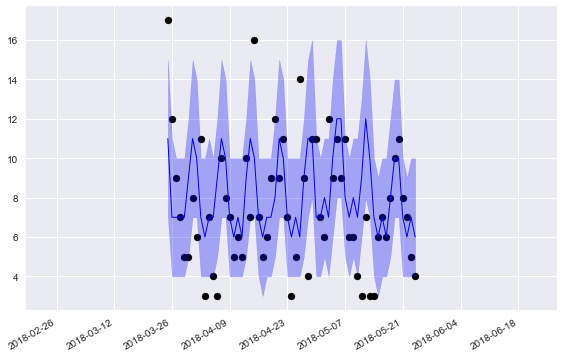
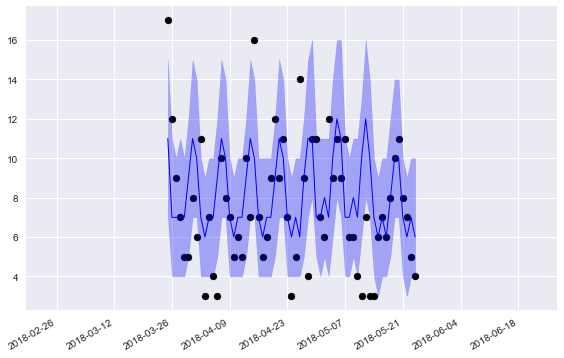
slight example improvement

diff --git a/searchindex.js b/searchindex.js
@@ -1,1 +1,1 @@
-Search.setIndex({docnames:["Poisson_DGLM_In_Depth_Example/Poisson_DGLM_In_Depth_Example","examples","includeme","index","manual","modules","pybats","regression_example","seasonality_example"],envversion:51,filenames:["Poisson_DGLM_In_Depth_Example/Poisson_DGLM_In_Depth_Example.rst","examples.rst","includeme.rst","index.rst","manual.md","modules.rst","pybats.rst","regression_example.md","seasonality_example.md"],objects:{"":{pybats:[6,0,0,"-"]},"pybats.analysis":{analysis:[6,1,1,""]},"pybats.conjugates":{beta_approx:[6,1,1,""],beta_solver:[6,1,1,""],conj_params:[6,1,1,""],gamma_alpha_approx:[6,1,1,""],gamma_approx:[6,1,1,""],gamma_solver:[6,1,1,""],pois_alpha_param:[6,1,1,""]},"pybats.define_models":{define_bern_params:[6,1,1,""],define_bin_params:[6,1,1,""],define_dglm:[6,1,1,""],define_dlm_params:[6,1,1,""],define_pois_params:[6,1,1,""],fill_diag:[6,1,1,""],ncol:[6,1,1,""]},"pybats.dglm":{bern_dglm:[6,2,1,""],bin_dglm:[6,2,1,""],dglm:[6,2,1,""],dlm:[6,2,1,""],pois_dglm:[6,2,1,""]},"pybats.dglm.bern_dglm":{get_conjugate_params:[6,3,1,""],get_mean:[6,3,1,""],get_mean_and_var:[6,3,1,""],get_prior_var:[6,3,1,""],loglik:[6,3,1,""],marginal_cdf:[6,3,1,""],prior_inverse_cdf:[6,3,1,""],sampling_density:[6,3,1,""],simulate:[6,3,1,""],simulate_from_prior:[6,3,1,""],simulate_from_sampling_model:[6,3,1,""],update_conjugate_params:[6,3,1,""]},"pybats.dglm.bin_dglm":{forecast_marginal:[6,3,1,""],get_conjugate_params:[6,3,1,""],get_mean:[6,3,1,""],get_prior_var:[6,3,1,""],loglik:[6,3,1,""],marginal_cdf:[6,3,1,""],prior_inverse_cdf:[6,3,1,""],simulate:[6,3,1,""],simulate_from_sampling_model:[6,3,1,""],update:[6,3,1,""],update_conjugate_params:[6,3,1,""]},"pybats.dglm.dglm":{build_discount_matrix:[6,3,1,""],forecast_marginal:[6,3,1,""],forecast_path:[6,3,1,""],forecast_state_mean_and_var:[6,3,1,""],get_W:[6,3,1,""],get_mean_and_var:[6,3,1,""],update:[6,3,1,""]},"pybats.dglm.dlm":{forecast_path:[6,3,1,""],get_conjugate_params:[6,3,1,""],get_mean:[6,3,1,""],get_mean_and_var:[6,3,1,""],simulate:[6,3,1,""],simulate_from_sampling_model:[6,3,1,""],update:[6,3,1,""]},"pybats.dglm.pois_dglm":{get_conjugate_params:[6,3,1,""],get_mean:[6,3,1,""],get_mean_and_var:[6,3,1,""],get_prior_var:[6,3,1,""],loglik:[6,3,1,""],marginal_cdf:[6,3,1,""],marginal_inverse_cdf:[6,3,1,""],prior_inverse_cdf:[6,3,1,""],sampling_density:[6,3,1,""],simulate:[6,3,1,""],simulate_from_prior:[6,3,1,""],simulate_from_sampling_model:[6,3,1,""],update_conjugate_params:[6,3,1,""]},"pybats.forecast":{forecast_R_cov:[6,1,1,""],forecast_aR:[6,1,1,""],forecast_marginal:[6,1,1,""],forecast_marginal_bindglm:[6,1,1,""],forecast_marginal_density_MC:[6,1,1,""],forecast_path:[6,1,1,""],forecast_path_dlm:[6,1,1,""],forecast_state_mean_and_var:[6,1,1,""],multivariate_t:[6,1,1,""],multivariate_t_density:[6,1,1,""]},"pybats.loss_functions":{MAD:[6,1,1,""],MAPE:[6,1,1,""],MSE:[6,1,1,""],WAFE:[6,1,1,""],WAPE:[6,1,1,""],ZAPE:[6,1,1,""],scaledMSE:[6,1,1,""]},"pybats.plot":{ax_style:[6,1,1,""],plot_coef:[6,1,1,""],plot_corr:[6,1,1,""],plot_data_forecast:[6,1,1,""]},"pybats.point_forecast":{constrained_joint_m_one_median:[6,1,1,""],constrained_mean:[6,1,1,""],constrained_median:[6,1,1,""],joint_m_one_median:[6,1,1,""],m_one_median:[6,1,1,""],mean:[6,1,1,""],median:[6,1,1,""],weighted_quantile:[6,1,1,""]},"pybats.seasonal":{createFourierToSeasonalL:[6,1,1,""],forecast_path_weekly_seasonal_factor:[6,1,1,""],forecast_weekly_seasonal_factor:[6,1,1,""],forecast_weekly_seasonal_factor_old:[6,1,1,""],fourierToSeasonal:[6,1,1,""],fourierToSeasonalFxnl:[6,1,1,""],get_latent_factor_fxnl_old:[6,1,1,""],get_seasonal_effect_fxnl:[6,1,1,""],get_seasonal_effect_old:[6,1,1,""],sample_seasonal_effect_fxnl:[6,1,1,""],sample_seasonal_effect_fxnl_old:[6,1,1,""],sample_seasonal_effect_old:[6,1,1,""],seascomp:[6,1,1,""]},"pybats.shared":{cov2corr:[6,1,1,""],define_holiday_regressors:[6,1,1,""],gamma_transformer:[6,1,1,""],load_sales_example2:[6,1,1,""],load_sales_example:[6,1,1,""],save:[6,1,1,""],transformer:[6,1,1,""],trigamma:[6,1,1,""]},"pybats.update":{update:[6,1,1,""],update_F:[6,1,1,""],update_bindglm:[6,1,1,""],update_dlm:[6,1,1,""]},pybats:{analysis:[6,0,0,"-"],conjugates:[6,0,0,"-"],define_models:[6,0,0,"-"],dglm:[6,0,0,"-"],forecast:[6,0,0,"-"],loss_functions:[6,0,0,"-"],plot:[6,0,0,"-"],point_forecast:[6,0,0,"-"],seasonal:[6,0,0,"-"],shared:[6,0,0,"-"],update:[6,0,0,"-"]}},objnames:{"0":["py","module","Python module"],"1":["py","function","Python function"],"2":["py","class","Python class"],"3":["py","method","Python method"]},objtypes:{"0":"py:module","1":"py:function","2":"py:class","3":"py:method"},terms:{"1st":6,"2nd":[3,6],"boolean":6,"case":3,"class":[0,3,6],"default":[0,3],"final":[0,3],"function":[0,3,6],"import":[0,3],"int":3,"long":0,"new":3,"public":3,"return":[0,3,6],"true":[0,6],"var":6,"while":0,For:[],Not:0,One:0,That:[],The:[0,3],Then:[0,3],There:0,These:[0,3],Use:[],Used:0,about:[],abov:0,abraham:3,absolut:0,accomplish:0,accur:0,acknowledg:3,across:[3,6],act:[],actual:0,adapt:6,adapt_discount:6,adapt_factor:6,added:[0,6],addit:0,adjust:0,advertis:3,after:[0,3],ahead:[0,3,6],align:0,all:[0,6],along:[0,3],alpha:6,alpha_init:6,also:0,alwai:0,analysi:[1,3,5],analyz:0,andrew:3,ani:0,answer:0,anyth:0,appear:0,arang:3,arg:6,argument:[0,6],around:0,arrai:6,arxiv:3,associ:3,automat:[0,3],avail:[],averag:0,ax_styl:[0,3,6],bad:0,base:[3,6],basic:3,bayesian:3,becaus:[0,3],becom:0,been:0,begin:[0,6],believ:0,bern_dglm:6,bernoulli:[3,6],berri:3,beta:6,beta_approx:6,beta_init:6,beta_solv:6,between:0,bfill:[],bin_dglm:6,binomi:[3,6],boost:0,build_discount_matrix:6,calcul:0,calibr:0,call:0,can:[0,3,6],caption:[],captur:0,caus:0,cdf:6,center:0,chang:0,choos:[],clear:0,clearli:0,clone:3,close:0,code:[],coef:6,coef_sampl:6,coeffic:0,coeffici:0,column:[0,6],com:3,come:0,common:6,complet:0,compon:[0,3,6],conclus:1,conj_param:6,conjug:[0,5],consid:0,constrained_joint_m_one_median:6,constrained_mean:6,constrained_median:6,consum:3,contain:0,content:5,contributor:3,control:3,copula:[],corr:6,correct:0,could:[0,3],count:3,coupl:3,cov2corr:6,cov:6,covari:[0,3,6],createfouriertoseasonal:6,credibl:[0,3],credible_interv:[0,6],cron:3,current:[0,3],custom:3,dai:[1,6],daili:[0,6],data:[1,3,6],data_1step:0,datafram:0,dataset:[0,3],date:[0,3,6],dateoffset:0,dayofweek:0,decompos:0,deep:0,def:0,defin:[0,3,6],define_bern_param:6,define_bin_param:6,define_dglm:6,define_dlm_param:6,define_holiday_regressor:6,define_model:5,define_pois_param:6,definit:0,degre:6,delhol:6,delregn:[3,6],delsea:[0,6],deltrend:[3,6],delvar:6,demonstr:0,densiti:6,depth:[1,3],design:3,desir:0,detail:0,develop:3,deviat:[0,6],dglm:[0,3,5],did:0,dietari:3,discount:[0,3,6],discount_forecast:6,discuss:[],distribut:[0,3,6],dive:0,dlm:[3,6],document:[],don:0,dow_post_mean:0,dow_post_mean_plot:0,download:3,draw:[0,6],dtype:3,dynam:[0,3],each:[0,6],easi:0,easili:[],edit:3,effect:[0,3,6],either:0,end:[3,6],entri:3,equal:0,equat:6,equival:0,error:[0,6],even:0,evolut:[0,6],exactli:0,examin:[],exampl:3,exp:0,explod:6,explor:0,expon:0,exponenti:6,extens:3,extract:3,f_sea:0,f_t:[],factor:[0,3,6],fairli:0,fals:6,famili:[0,3,6],few:0,fewer:[],ffill:0,fig:[0,3,6],filenam:6,fill_diag:6,filter:[0,3],first:[0,3,6],flexibl:3,flow:[],fn1:6,fn2:6,focu:3,follow:0,forecast:[1,3,5],forecast_ar:6,forecast_end:[0,3,6],forecast_joint_copula_density_mc:[],forecast_joint_copula_sim:[],forecast_length:0,forecast_margin:6,forecast_marginal_bindglm:6,forecast_marginal_density_mc:6,forecast_path:6,forecast_path_copula:[],forecast_path_copula_density_mc:[],forecast_path_copula_sim:[],forecast_path_dlm:6,forecast_path_weekly_seasonal_factor:6,forecast_r_cov:6,forecast_samp:0,forecast_start:[0,3,6],forecast_state_mean_and_var:6,forecast_weekly_seasonal_factor:6,forecast_weekly_seasonal_factor_old:6,form:3,forward:[0,3],fouriertoseason:6,fouriertoseasonalfxnl:6,freedom:6,fridai:0,from:[0,3,6],fsea:6,full:0,further:6,futur:[0,6],gamma_alpha_approx:6,gamma_approx:6,gamma_solv:6,gamma_transform:6,gener:3,get:0,get_conjugate_param:6,get_latent_factor_fxnl_old:6,get_mean:6,get_mean_and_var:6,get_prior_var:6,get_seasonal_effect_fxnl:6,get_seasonal_effect_old:6,get_w:6,git:3,github:3,given:6,going:0,good:0,graph:0,gsea:6,habit:0,harm_post_mean:0,harmcompon:6,harmon:[0,6],harrison:[3,6],has:[0,3],have:0,head:0,helman:3,helper:3,here:0,heterogen:3,higher:0,highest:0,histor:0,histori:0,holidai:[0,6],horizon:[0,3,6],host:3,how:[0,3,6],http:[],imag:3,inc:3,includ:6,increas:[0,3],index:[0,3,6],indic:[0,6],info:6,inform:0,initi:6,instal:[],instead:6,integ:[0,3],intercept:[0,3,6],interest:[0,3],interfac:[],interg:[],interp:6,interp_fn:6,interpol:6,interpret:0,interv:[0,3],isaac:3,isea:[0,6],item:0,joint:0,joint_m_one_median:6,jpg:3,june:0,just:0,kei:6,know:0,known:0,kwarg:6,kx1:[],kxk:[],label:6,lambda:6,lambda_cov:[],lambda_mu:[],lambda_t:[],larg:0,larger:[0,3,6],lavin:3,lavinei:3,learn:0,ledolt:3,legend:[0,3,6],legend_inside_plot:6,less:0,let:0,level:6,like:0,linear:[0,3],linecolor:6,linewidth:6,link:0,list:[0,6],load:[1,3],load_sales_exampl:[3,6],load_sales_example2:[0,6],loc:0,local:6,log:[0,6],loglik:6,longer:0,look:[0,3],loss:0,loss_funct:[0,5],lower:0,m_one_median:6,mad:[0,6],mani:[0,3,6],manual:0,mape:[0,6],margin:[0,3,6],marginal_cdf:6,marginal_inverse_cdf:6,matplotlib:[0,3],matrix:[0,6],maxdepth:[],mdinclud:[],mean:[0,3,6],mean_onli:6,meant:[],median:[0,3,6],method:0,metric:0,might:[],minim:0,mod:[0,3,6],mod_list:[],model:[0,3,6],model_coef:[0,6],model_prior:6,modul:[3,5],mondai:0,monitor:0,month:0,more:0,most:[0,3],move:0,mse:[0,6],mu_t:[],much:0,multipl:[0,3],multivariate_t:6,multivariate_t_dens:6,must:[],natur:0,ncol:6,need:0,next:0,nhol:6,noisi:0,none:6,normal:[3,6],note:0,notic:0,now:0,nregn:6,nsamp:[0,6],ntrend:6,number:[0,6],numpi:[0,3],obj:6,object:6,observ:[3,6],obtain:0,occur:0,off:0,offer:3,okai:0,onc:0,one:0,onli:[0,6],onlin:0,optim:0,option:[3,6],order_dow:0,other:0,otherwis:6,our:0,out:0,outcom:3,output:0,over:0,packag:[0,3,5],page:3,panda:[0,6],paramet:[0,6],part:0,pass:0,path:[0,6],path_forecast:0,pattern:0,percent:0,perfect:0,perform:[0,3],period:[0,3,6],pictur:0,pip:[],plenti:0,plot:[1,3,5],plot_coef:[0,6],plot_corr:6,plot_data_forecast:[0,3,6],plt:[0,3],plu:3,pluck:0,poi:[],point:[0,3],point_forecast:[0,3,5],pois_alpha_param:6,pois_dglm:6,poisson:[0,3,6],poisson_dglm_in_depth_exampl:[],popular:0,positive_regn:6,posterior:[0,3],potenti:0,predictor:[0,6],prespecifi:6,pretti:0,prevent:6,price:0,print:0,prior:[0,3,6],prior_inverse_cdf:6,prior_length:[0,3,6],probabilist:3,probabl:0,produc:6,product:3,promot:0,properti:0,provid:[0,3],pure:3,pybat:0,pybats_github:[],pypi:[],pyplot:[0,3],python:3,quantil:6,question:0,quick:[],random:[0,3],rang:0,rapidli:0,rate:6,react:0,readm:[],recogn:0,reduc:0,refer:3,regress:[0,3,6],rememb:0,replac:0,repres:0,requir:0,respect:3,result:[1,3],ret:[0,6],return_ar:6,return_cov:[],reveal:[],rho:[0,3,6],rightbord:6,rotat:0,row:[0,6],rule:0,run:[1,3],sai:0,sale:[1,3],samp:6,sampl:[0,3,6],sample_seasonal_effect_fxnl:6,sample_seasonal_effect_fxnl_old:6,sample_seasonal_effect_old:6,samples_1step:0,sampling_dens:6,saturdai:0,save:[0,6],savefig:3,saw:0,scale:[0,6],scaledms:6,sea:[],search:3,seas_eff:0,seascomp:6,seasharmcompon:[0,6],season:[1,5],seasperiod:[0,6],second:[0,3],see:[0,3],sequenti:[0,3],seri:3,set:[0,3],set_index:0,setup:3,shape:0,share:[0,3,5],shop:0,should:[0,6],show:0,signific:0,sim:[],similar:0,simpl:0,simul:[0,6],simulate_from_prior:6,simulate_from_sampling_model:6,size:6,slope:6,slowli:0,smaller:[0,6],solver_fn:6,sourc:[3,6],space:0,special:6,specif:0,specifi:[0,3],spend:3,spike:0,springer:3,squar:0,stabil:0,stabl:0,standard:[0,6],start:[0,6],state:[0,3,6],state_mean_var:6,step:[0,3,6],still:0,stochast:6,stop:0,store:[0,3],strong:0,structur:0,submit:3,submodul:5,subplot:[0,3],success:6,sudo:3,sum:0,sundai:0,support:3,t_dist:[],take:[0,3],takeawai:0,term:0,test:6,than:0,thei:0,them:0,therefor:[],theta:[],theta_:[],theta_t:[],thi:[0,3,6],think:0,those:0,through:0,thursdai:0,time:[0,3],titl:6,to_datetim:0,to_replac:0,todai:6,took:[],topbord:6,total:0,transact:3,transform:[0,6],translat:0,trend:[0,3,6],trigamma:6,tseri:[0,6],tuesdai:0,turn:[],two:0,type:0,uncertainti:0,underli:[],unfortun:0,unpredict:0,updat:[0,3,5],update_bindglm:6,update_conjugate_param:6,update_dlm:6,update_f:6,upon:3,use:[0,3,6],used:[0,6],usfederalholidaycalendar:0,using:[0,3,6],valu:[0,3,6],varianc:[0,3,6],vector:[0,3,6],veri:0,verlag:3,version:[],visibl:0,visitor:[],volatil:6,wafe:6,wai:6,want:0,wape:6,websit:[],wednesdai:0,week:1,weekli:[0,6],weight:[3,6],weighted_quantil:6,welcom:[],well:[0,3],west:[3,6],what:0,when:[0,6],where:[0,6],which:[0,3],why:0,wonder:0,word:6,would:[],wrapper:0,xlabel:[3,6],xlim:[3,6],y_t:[],yes:6,ylabel:[3,6],ylim:6,ymean:6,york:3,you:[0,3],zape:[0,6],zero:0,zip:0,zoom:0},titles:["Sales Forecasting: In-Depth Example","Examples","&lt;no title&gt;","PyBATS","&lt;no title&gt;","pybats","pybats package","Regression Example","Seasonality Example"],titleterms:{"function":[],Use:[],analysi:[0,6],conclus:0,conjug:6,content:6,dai:0,data:0,define_model:6,depth:0,dglm:6,document:[],exampl:[0,1,7,8],forecast:[0,6],indic:3,instal:3,load:0,loss_funct:6,modul:6,packag:6,plot:[0,6],point_forecast:6,pybat:[3,5,6],quick:3,regress:7,result:0,run:0,sale:0,season:[0,6,8],share:6,start:3,submodul:6,tabl:3,updat:6,week:0,welcom:[]}})
+Search.setIndex({docnames:["Poisson_DGLM_In_Depth_Example/Poisson_DGLM_In_Depth_Example","examples","includeme","index","manual","modules","pybats","regression_example","seasonality_example"],envversion:51,filenames:["Poisson_DGLM_In_Depth_Example/Poisson_DGLM_In_Depth_Example.rst","examples.rst","includeme.rst","index.rst","manual.md","modules.rst","pybats.rst","regression_example.md","seasonality_example.md"],objects:{"":{pybats:[6,0,0,"-"]},"pybats.analysis":{analysis:[6,1,1,""]},"pybats.conjugates":{beta_approx:[6,1,1,""],beta_solver:[6,1,1,""],conj_params:[6,1,1,""],gamma_alpha_approx:[6,1,1,""],gamma_approx:[6,1,1,""],gamma_solver:[6,1,1,""],pois_alpha_param:[6,1,1,""]},"pybats.define_models":{define_bern_params:[6,1,1,""],define_bin_params:[6,1,1,""],define_dglm:[6,1,1,""],define_dlm_params:[6,1,1,""],define_pois_params:[6,1,1,""],fill_diag:[6,1,1,""],ncol:[6,1,1,""]},"pybats.dglm":{bern_dglm:[6,2,1,""],bin_dglm:[6,2,1,""],dglm:[6,2,1,""],dlm:[6,2,1,""],pois_dglm:[6,2,1,""]},"pybats.dglm.bern_dglm":{get_conjugate_params:[6,3,1,""],get_mean:[6,3,1,""],get_mean_and_var:[6,3,1,""],get_prior_var:[6,3,1,""],loglik:[6,3,1,""],marginal_cdf:[6,3,1,""],prior_inverse_cdf:[6,3,1,""],sampling_density:[6,3,1,""],simulate:[6,3,1,""],simulate_from_prior:[6,3,1,""],simulate_from_sampling_model:[6,3,1,""],update_conjugate_params:[6,3,1,""]},"pybats.dglm.bin_dglm":{forecast_marginal:[6,3,1,""],get_conjugate_params:[6,3,1,""],get_mean:[6,3,1,""],get_prior_var:[6,3,1,""],loglik:[6,3,1,""],marginal_cdf:[6,3,1,""],prior_inverse_cdf:[6,3,1,""],simulate:[6,3,1,""],simulate_from_sampling_model:[6,3,1,""],update:[6,3,1,""],update_conjugate_params:[6,3,1,""]},"pybats.dglm.dglm":{build_discount_matrix:[6,3,1,""],forecast_marginal:[6,3,1,""],forecast_path:[6,3,1,""],forecast_state_mean_and_var:[6,3,1,""],get_W:[6,3,1,""],get_mean_and_var:[6,3,1,""],update:[6,3,1,""]},"pybats.dglm.dlm":{forecast_path:[6,3,1,""],get_conjugate_params:[6,3,1,""],get_mean:[6,3,1,""],get_mean_and_var:[6,3,1,""],simulate:[6,3,1,""],simulate_from_sampling_model:[6,3,1,""],update:[6,3,1,""]},"pybats.dglm.pois_dglm":{get_conjugate_params:[6,3,1,""],get_mean:[6,3,1,""],get_mean_and_var:[6,3,1,""],get_prior_var:[6,3,1,""],loglik:[6,3,1,""],marginal_cdf:[6,3,1,""],marginal_inverse_cdf:[6,3,1,""],prior_inverse_cdf:[6,3,1,""],sampling_density:[6,3,1,""],simulate:[6,3,1,""],simulate_from_prior:[6,3,1,""],simulate_from_sampling_model:[6,3,1,""],update_conjugate_params:[6,3,1,""]},"pybats.forecast":{forecast_R_cov:[6,1,1,""],forecast_aR:[6,1,1,""],forecast_marginal:[6,1,1,""],forecast_marginal_bindglm:[6,1,1,""],forecast_marginal_density_MC:[6,1,1,""],forecast_path:[6,1,1,""],forecast_path_dlm:[6,1,1,""],forecast_state_mean_and_var:[6,1,1,""],multivariate_t:[6,1,1,""],multivariate_t_density:[6,1,1,""]},"pybats.loss_functions":{MAD:[6,1,1,""],MAPE:[6,1,1,""],MSE:[6,1,1,""],WAFE:[6,1,1,""],WAPE:[6,1,1,""],ZAPE:[6,1,1,""],scaledMSE:[6,1,1,""]},"pybats.plot":{ax_style:[6,1,1,""],plot_coef:[6,1,1,""],plot_corr:[6,1,1,""],plot_data_forecast:[6,1,1,""]},"pybats.point_forecast":{constrained_joint_m_one_median:[6,1,1,""],constrained_mean:[6,1,1,""],constrained_median:[6,1,1,""],joint_m_one_median:[6,1,1,""],m_one_median:[6,1,1,""],mean:[6,1,1,""],median:[6,1,1,""],weighted_quantile:[6,1,1,""]},"pybats.seasonal":{createFourierToSeasonalL:[6,1,1,""],forecast_path_weekly_seasonal_factor:[6,1,1,""],forecast_weekly_seasonal_factor:[6,1,1,""],forecast_weekly_seasonal_factor_old:[6,1,1,""],fourierToSeasonal:[6,1,1,""],fourierToSeasonalFxnl:[6,1,1,""],get_latent_factor_fxnl_old:[6,1,1,""],get_seasonal_effect_fxnl:[6,1,1,""],get_seasonal_effect_old:[6,1,1,""],sample_seasonal_effect_fxnl:[6,1,1,""],sample_seasonal_effect_fxnl_old:[6,1,1,""],sample_seasonal_effect_old:[6,1,1,""],seascomp:[6,1,1,""]},"pybats.shared":{cov2corr:[6,1,1,""],define_holiday_regressors:[6,1,1,""],gamma_transformer:[6,1,1,""],load_sales_example2:[6,1,1,""],load_sales_example:[6,1,1,""],save:[6,1,1,""],transformer:[6,1,1,""],trigamma:[6,1,1,""]},"pybats.update":{update:[6,1,1,""],update_F:[6,1,1,""],update_bindglm:[6,1,1,""],update_dlm:[6,1,1,""]},pybats:{analysis:[6,0,0,"-"],conjugates:[6,0,0,"-"],define_models:[6,0,0,"-"],dglm:[6,0,0,"-"],forecast:[6,0,0,"-"],loss_functions:[6,0,0,"-"],plot:[6,0,0,"-"],point_forecast:[6,0,0,"-"],seasonal:[6,0,0,"-"],shared:[6,0,0,"-"],update:[6,0,0,"-"]}},objnames:{"0":["py","module","Python module"],"1":["py","function","Python function"],"2":["py","class","Python class"],"3":["py","method","Python method"]},objtypes:{"0":"py:module","1":"py:function","2":"py:class","3":"py:method"},terms:{"1st":6,"2nd":[3,6],"boolean":6,"case":3,"class":[0,3,6],"default":[0,3],"final":[0,3],"function":[0,3,6],"import":[0,3],"int":3,"long":0,"new":3,"public":3,"return":[0,3,6],"true":[0,6],"var":6,"while":[],For:0,Not:0,One:0,That:[],The:[0,3],Then:[0,3],There:0,These:[0,3],Use:[],Used:0,about:[],abov:0,abraham:3,absolut:0,accomplish:0,accur:0,acknowledg:3,across:[3,6],act:[],actual:0,adapt:6,adapt_discount:6,adapt_factor:6,added:[0,6],addit:0,adjust:0,advertis:3,after:[0,3],ahead:[0,3,6],align:0,all:[0,6],along:[0,3],alpha:6,alpha_init:6,also:0,alwai:0,analysi:[1,3,5],analyz:0,andrew:3,ani:0,answer:0,anyth:0,appear:0,arang:3,arg:6,argument:[0,6],around:0,arrai:6,arxiv:3,associ:3,automat:[0,3],avail:[],averag:0,ax_styl:[0,3,6],bad:0,base:[3,6],basic:3,bayesian:[0,3],becaus:[0,3],becom:0,been:0,begin:[0,6],believ:0,bern_dglm:6,bernoulli:[3,6],berri:3,beta:6,beta_approx:6,beta_init:6,beta_solv:6,between:0,bfill:[],bin_dglm:6,binomi:[3,6],boost:0,build_discount_matrix:6,calcul:0,calibr:0,call:0,can:[0,3,6],caption:[],captur:0,caus:0,cdf:6,center:0,chang:0,chapter:0,choos:[],clear:0,clearli:0,clone:3,close:0,code:[],coef:6,coef_sampl:6,coeffic:0,coeffici:0,column:[0,6],com:3,come:0,common:6,complet:0,compon:[0,3,6],conclus:1,conj_param:6,conjug:[0,5],consid:0,constrained_joint_m_one_median:6,constrained_mean:6,constrained_median:6,consum:3,contain:0,content:5,contributor:3,control:3,copula:[],corr:6,correct:0,could:[0,3],count:3,coupl:3,cov2corr:6,cov:6,covari:[0,3,6],createfouriertoseasonal:6,credibl:[0,3],credible_interv:[0,6],cron:3,current:[0,3],custom:3,dai:[1,6],daili:[0,6],data:[1,3,6],data_1step:0,datafram:0,dataset:[0,3],date:[0,3,6],dateoffset:0,dayofweek:0,decompos:0,deep:0,def:0,defin:[0,3,6],define_bern_param:6,define_bin_param:6,define_dglm:6,define_dlm_param:6,define_holiday_regressor:6,define_model:5,define_pois_param:6,definit:0,degre:6,delhol:6,delregn:[3,6],delsea:[0,6],deltrend:[3,6],delvar:6,demonstr:0,densiti:6,depth:[1,3],design:3,desir:0,detail:0,develop:3,deviat:[0,6],dglm:[0,3,5],did:0,dietari:3,discount:[0,3,6],discount_forecast:6,discuss:[],distribut:[0,3,6],dive:0,dlm:[3,6],document:[],don:0,dow_post_mean:0,dow_post_mean_plot:0,download:3,draw:[0,6],dtype:3,dynam:[0,3],each:[0,6],easi:0,easili:[],edit:3,effect:[0,3,6],either:0,end:[3,6],entri:3,equal:0,equat:6,equival:0,error:[0,6],even:0,evolut:[0,6],exactli:0,examin:[],exampl:3,exp:0,explod:6,explor:0,expon:0,exponenti:6,extens:3,extract:3,f_sea:0,f_t:[],factor:[0,3,6],fairli:0,fals:6,famili:[0,3,6],few:0,fewer:[],ffill:0,fig:[0,3,6],filenam:6,fill_diag:6,filter:[0,3],first:[0,3,6],flexibl:3,flow:[],fn1:6,fn2:6,focu:3,follow:0,forecast:[1,3,5],forecast_ar:6,forecast_end:[0,3,6],forecast_joint_copula_density_mc:[],forecast_joint_copula_sim:[],forecast_length:0,forecast_margin:6,forecast_marginal_bindglm:6,forecast_marginal_density_mc:6,forecast_path:6,forecast_path_copula:[],forecast_path_copula_density_mc:[],forecast_path_copula_sim:[],forecast_path_dlm:6,forecast_path_weekly_seasonal_factor:6,forecast_r_cov:6,forecast_samp:0,forecast_start:[0,3,6],forecast_state_mean_and_var:6,forecast_weekly_seasonal_factor:6,forecast_weekly_seasonal_factor_old:6,form:3,forward:[0,3],fouriertoseason:6,fouriertoseasonalfxnl:6,freedom:6,fridai:0,from:[0,3,6],fsea:6,full:0,further:6,futur:[0,6],gamma_alpha_approx:6,gamma_approx:6,gamma_solv:6,gamma_transform:6,gener:3,get:0,get_conjugate_param:6,get_latent_factor_fxnl_old:6,get_mean:6,get_mean_and_var:6,get_prior_var:6,get_seasonal_effect_fxnl:6,get_seasonal_effect_old:6,get_w:6,git:3,github:3,given:6,going:0,good:0,graph:0,gsea:6,habit:0,harm_post_mean:0,harmcompon:6,harmon:[0,6],harrison:[0,3,6],has:[0,3],have:0,head:0,helman:3,helper:3,here:0,heterogen:3,higher:0,highest:0,histor:0,histori:0,holidai:[0,6],horizon:[0,3,6],host:3,how:[0,3,6],http:[],iloc:0,imag:3,inc:3,includ:6,increas:[0,3],index:[0,3,6],indic:[0,6],info:6,inform:0,initi:6,instal:[],instead:6,integ:[0,3],intercept:[0,3,6],interest:[0,3],interfac:[],interg:[],interp:6,interp_fn:6,interpol:6,interpret:0,interv:[0,3],isaac:3,isea:[0,6],item:0,joint:0,joint_m_one_median:6,jpg:3,june:0,just:0,kei:6,know:0,known:0,kwarg:6,kx1:[],kxk:[],label:6,lambda:6,lambda_cov:[],lambda_mu:[],lambda_t:[],larg:0,larger:[0,3,6],lavin:3,lavinei:3,learn:[],ledolt:3,legend:[0,3,6],legend_inside_plot:6,less:0,let:0,level:6,like:0,linear:[0,3],linecolor:6,linewidth:6,link:0,list:[0,6],load:[1,3],load_sales_exampl:[3,6],load_sales_example2:[0,6],loc:0,local:6,log:[0,6],loglik:6,longer:0,look:[0,3],loss:0,loss_funct:[0,5],lower:0,m_one_median:6,mad:[0,6],mani:[0,3,6],manual:0,mape:[0,6],margin:[0,3,6],marginal_cdf:6,marginal_inverse_cdf:6,matplotlib:[0,3],matrix:[0,6],maxdepth:[],mdinclud:[],mean:[0,3,6],mean_onli:6,meant:[],median:[0,3,6],method:0,metric:0,might:[],minim:0,mod:[0,3,6],mod_list:[],model:[0,3,6],model_coef:[0,6],model_prior:6,modul:[3,5],mondai:0,monitor:0,month:0,more:0,most:[0,3],move:0,mse:[0,6],mu_t:[],much:0,multipl:[0,3],multivariate_t:6,multivariate_t_dens:6,must:[],natur:0,ncol:6,need:0,next:0,nhol:6,noisi:0,none:6,normal:[3,6],note:0,notic:0,now:0,nregn:6,nsamp:[0,6],ntrend:6,number:[0,6],numpi:[0,3],obj:6,object:6,observ:[3,6],obtain:0,occur:0,off:0,offer:3,okai:0,onc:[],one:0,onli:[0,6],onlin:0,optim:0,option:[3,6],order_dow:0,other:0,otherwis:6,our:0,out:0,outcom:3,output:0,over:0,packag:[0,3,5],page:3,panda:[0,6],paramet:[0,6],part:0,pass:0,path:[0,6],path_forecast:0,pattern:0,percent:0,perfect:0,perform:[0,3],period:[0,3,6],pictur:0,pip:[],plenti:0,plot:[1,3,5],plot_coef:[0,6],plot_corr:6,plot_data_forecast:[0,3,6],plt:[0,3],plu:3,pluck:0,poi:[],point:[0,3],point_forecast:[0,3,5],pois_alpha_param:6,pois_dglm:6,poisson:[0,3,6],poisson_dglm_in_depth_exampl:[],popular:0,positive_regn:6,posterior:[0,3],potenti:0,predictor:[0,6],prespecifi:6,pretti:0,prevent:6,price:0,print:0,prior:[0,3,6],prior_inverse_cdf:6,prior_length:[0,3,6],probabilist:3,probabl:0,process:0,produc:6,product:3,promot:0,properti:0,provid:[0,3],pure:3,pybat:0,pybats_github:[],pypi:[],pyplot:[0,3],python:3,quantil:6,question:0,quick:[],random:[0,3],rang:0,rapidli:0,rate:6,react:0,readm:[],recogn:0,reduc:0,refer:3,regress:[0,3,6],rememb:0,replac:0,repres:0,requir:0,respect:3,result:[1,3],ret:[0,6],return_ar:6,return_cov:[],reveal:[],rho:[0,3,6],rightbord:6,rotat:0,row:[0,6],rule:0,run:[1,3],sai:0,sale:[1,3],samp:6,sampl:[0,3,6],sample_seasonal_effect_fxnl:6,sample_seasonal_effect_fxnl_old:6,sample_seasonal_effect_old:6,samples_1step:0,sampling_dens:6,saturdai:0,save:[0,6],savefig:3,saw:0,scale:[0,6],scaledms:6,sea:[],search:3,seas_eff:0,seascomp:6,seasharmcompon:[0,6],season:[1,5],seasperiod:[0,6],second:[0,3],see:3,sequenti:[0,3],seri:3,set:[0,3],set_index:0,setup:3,shape:0,share:[0,3,5],shop:0,should:[0,6],show:0,signific:0,sim:[],similar:0,simpl:0,simul:[0,6],simulate_from_prior:6,simulate_from_sampling_model:6,size:6,slope:6,slowli:0,smaller:[0,6],solver_fn:6,sourc:[3,6],space:0,special:6,specif:0,specifi:[0,3],spend:3,spike:0,springer:3,squar:0,stabil:[],stabl:0,standard:[0,6],start:[0,6],start_dai:0,state:[0,3,6],state_mean_var:6,step:[0,3,6],still:0,stochast:6,stop:0,store:[0,3],strong:0,structur:0,submit:3,submodul:5,subplot:[0,3],success:6,sudo:3,sum:0,sundai:0,support:3,t_dist:[],take:[0,3],takeawai:0,term:0,test:6,than:0,thei:0,them:0,therefor:[],theta:[],theta_:[],theta_t:[],thi:[0,3,6],think:0,those:0,through:0,thursdai:0,time:[0,3],titl:6,to_datetim:0,to_replac:0,todai:6,took:[],topbord:6,total:0,transact:3,transform:[0,6],translat:0,trend:[0,3,6],trigamma:6,tseri:[0,6],tuesdai:0,turn:[],two:0,type:0,uncertainti:0,underli:[],unfortun:0,unpredict:0,updat:[0,3,5],update_bindglm:6,update_conjugate_param:6,update_dlm:6,update_f:6,upon:3,use:[0,3,6],used:[0,6],usfederalholidaycalendar:0,using:[0,3,6],valu:[0,3,6],varianc:[0,3,6],vector:[0,3,6],veri:0,verlag:3,version:[],visibl:0,visitor:[],volatil:6,wafe:6,wai:6,want:0,wape:6,websit:[],wednesdai:0,week:1,weekli:[0,6],weight:[3,6],weighted_quantil:6,welcom:[],well:[0,3],west:[0,3,6],what:0,when:[0,6],where:[0,6],which:[0,3],why:0,wonder:0,word:6,would:[],wrapper:0,xlabel:[3,6],xlim:[3,6],y_t:[],yes:6,ylabel:[3,6],ylim:6,ymean:6,york:3,you:[0,3],zape:[0,6],zero:0,zip:0,zoom:0},titles:["Sales Forecasting: In-Depth Example","Examples","&lt;no title&gt;","PyBATS","&lt;no title&gt;","pybats","pybats package","Regression Example","Seasonality Example"],titleterms:{"function":[],Use:[],analysi:[0,6],conclus:0,conjug:6,content:6,dai:0,data:0,define_model:6,depth:0,dglm:6,document:[],exampl:[0,1,7,8],forecast:[0,6],indic:3,instal:3,load:0,loss_funct:6,modul:6,packag:6,plot:[0,6],point_forecast:6,pybat:[3,5,6],quick:3,regress:7,result:0,run:0,sale:0,season:[0,6,8],share:6,start:3,submodul:6,tabl:3,updat:6,week:0,welcom:[]}})

diff --git a/Poisson_DGLM_In_Depth_Example/Poisson_DGLM_In_Depth_Example.html b/Poisson_DGLM_In_Depth_Example/Poisson_DGLM_In_Depth_Example.html
@@ -248,8 +248,8 @@ very large.</p>
 <span class="nb">print</span><span class="p">(</span><span class="n">ZAPE</span><span class="p">(</span><span class="n">data_1step</span><span class="o">.</span><span class="n">Sales</span><span class="p">,</span> <span class="n">median</span><span class="p">(</span><span class="n">samples_1step</span><span class="p">)))</span>
 </pre></div>
 </div>
-<div class="highlight-default"><div class="highlight"><pre><span></span><span class="mf">2.35658153242</span>
-<span class="mf">36.2635365406</span>
+<div class="highlight-default"><div class="highlight"><pre><span></span><span class="mf">2.35559921415</span>
+<span class="mf">36.7385246064</span>
 </pre></div>
 </div>
 <p>The first loss function is the Mean Absolute Deviation (MAD). Note that
@@ -294,7 +294,9 @@ answer exactly that question!</p>
 seasonal coefficients, using the ‘mod.iseas’ property to get the indices
 for the seasonal components.</p>
 <p>Then, we transform these harmonic seasonal components into interpretable
-coefficients for the 7 days of the week.</p>
+coefficients for the 7 days of the week. For more details on this
+process, look at <em>Bayesian Forecasting and Dynamic Models</em> by Harrison
+and West, Chapter 8.</p>
 <div class="code highlight-default"><div class="highlight"><pre><span></span><span class="n">harm_post_mean</span> <span class="o">=</span> <span class="n">model_coef</span><span class="p">[</span><span class="s1">&#39;m&#39;</span><span class="p">][:,</span><span class="n">mod</span><span class="o">.</span><span class="n">iseas</span><span class="p">[</span><span class="mi">0</span><span class="p">]]</span>
 <span class="n">dow_post_mean</span> <span class="o">=</span> <span class="n">mod</span><span class="o">.</span><span class="n">L</span><span class="p">[</span><span class="mi">0</span><span class="p">]</span> <span class="o">@</span> <span class="n">harm_post_mean</span><span class="o">.</span><span class="n">T</span>
 </pre></div>
@@ -319,17 +321,16 @@ that day.</p>
 <div class="code highlight-default"><div class="highlight"><pre><span></span><span class="n">days</span> <span class="o">=</span> <span class="p">[</span><span class="s1">&#39;Monday&#39;</span><span class="p">,</span> <span class="s1">&#39;Tuesday&#39;</span><span class="p">,</span> <span class="s1">&#39;Wednesday&#39;</span><span class="p">,</span> <span class="s1">&#39;Thursday&#39;</span><span class="p">,</span> <span class="s1">&#39;Friday&#39;</span><span class="p">,</span> <span class="s1">&#39;Saturday&#39;</span><span class="p">,</span> <span class="s1">&#39;Sunday&#39;</span><span class="p">]</span>
 </pre></div>
 </div>
-<div class="code highlight-default"><div class="highlight"><pre><span></span><span class="n">fig</span><span class="p">,</span> <span class="n">ax</span> <span class="o">=</span> <span class="n">plt</span><span class="o">.</span><span class="n">subplots</span><span class="p">(</span><span class="mi">1</span><span class="p">,</span><span class="mi">1</span><span class="p">)</span>
-<span class="n">ax</span> <span class="o">=</span> <span class="n">plot_coef</span><span class="p">(</span><span class="n">fig</span><span class="p">,</span> <span class="n">ax</span><span class="p">,</span> <span class="n">dow_post_mean_plot</span><span class="p">,</span> <span class="n">dates</span><span class="o">=</span><span class="n">data</span><span class="o">.</span><span class="n">loc</span><span class="p">[:</span><span class="n">forecast_end</span><span class="p">]</span><span class="o">.</span><span class="n">index</span><span class="p">,</span> <span class="n">legend</span><span class="o">=</span><span class="n">days</span><span class="p">)</span>
+<div class="code highlight-default"><div class="highlight"><pre><span></span><span class="n">start_day</span> <span class="o">=</span> <span class="mi">200</span>
+<span class="n">fig</span><span class="p">,</span> <span class="n">ax</span> <span class="o">=</span> <span class="n">plt</span><span class="o">.</span><span class="n">subplots</span><span class="p">(</span><span class="mi">1</span><span class="p">,</span><span class="mi">1</span><span class="p">)</span>
+<span class="n">ax</span> <span class="o">=</span> <span class="n">plot_coef</span><span class="p">(</span><span class="n">fig</span><span class="p">,</span> <span class="n">ax</span><span class="p">,</span> <span class="n">dow_post_mean_plot</span><span class="o">.</span><span class="n">iloc</span><span class="p">[</span><span class="n">start_day</span><span class="p">:],</span> <span class="n">dates</span><span class="o">=</span><span class="n">data</span><span class="o">.</span><span class="n">iloc</span><span class="p">[</span><span class="n">start_day</span><span class="p">:]</span><span class="o">.</span><span class="n">loc</span><span class="p">[:</span><span class="n">forecast_end</span><span class="p">]</span><span class="o">.</span><span class="n">index</span><span class="p">,</span> <span class="n">legend</span><span class="o">=</span><span class="n">days</span><span class="p">)</span>
 </pre></div>
 </div>
 <div class="code highlight-default"><div class="highlight"><pre><span></span><span class="n">plt</span><span class="o">.</span><span class="n">show</span><span class="p">(</span><span class="n">fig</span><span class="p">)</span>
 </pre></div>
 </div>
 <img alt="../_images/output_29_0.png" src="../_images/output_29_0.png" />
-<p>Okay, now this is interesting! First, we can see it takes a while for
-the model to learn the day-of-week effects. Once they stabilize, we have
-a few clear takeaways:</p>
+<p>Okay, now this is interesting! We have a few clear takeaways:</p>
 <ul class="simple">
 <li>Saturday and Sunday have the highest sales, followed by Friday</li>
 <li>Monday through Thursday all have very similar sales, with
@@ -355,7 +356,7 @@ correct day’s seasonal effect. So to interpret each day’s
 <em>multiplicative</em> effect on sales, we take the exponent of the graph
 above:</p>
 <div class="code highlight-default"><div class="highlight"><pre><span></span><span class="n">fig</span><span class="p">,</span> <span class="n">ax</span> <span class="o">=</span> <span class="n">plt</span><span class="o">.</span><span class="n">subplots</span><span class="p">(</span><span class="mi">1</span><span class="p">,</span><span class="mi">1</span><span class="p">)</span>
-<span class="n">ax</span> <span class="o">=</span> <span class="n">plot_coef</span><span class="p">(</span><span class="n">fig</span><span class="p">,</span> <span class="n">ax</span><span class="p">,</span> <span class="n">np</span><span class="o">.</span><span class="n">exp</span><span class="p">(</span><span class="n">dow_post_mean_plot</span><span class="p">),</span> <span class="n">dates</span><span class="o">=</span><span class="n">data</span><span class="o">.</span><span class="n">loc</span><span class="p">[:</span><span class="n">forecast_end</span><span class="p">]</span><span class="o">.</span><span class="n">index</span><span class="p">,</span> <span class="n">legend</span><span class="o">=</span><span class="n">days</span><span class="p">)</span>
+<span class="n">ax</span> <span class="o">=</span> <span class="n">plot_coef</span><span class="p">(</span><span class="n">fig</span><span class="p">,</span> <span class="n">ax</span><span class="p">,</span> <span class="n">np</span><span class="o">.</span><span class="n">exp</span><span class="p">(</span><span class="n">dow_post_mean_plot</span><span class="p">)[</span><span class="n">start_day</span><span class="p">:],</span> <span class="n">dates</span><span class="o">=</span><span class="n">data</span><span class="o">.</span><span class="n">iloc</span><span class="p">[</span><span class="n">start_day</span><span class="p">:]</span><span class="o">.</span><span class="n">loc</span><span class="p">[:</span><span class="n">forecast_end</span><span class="p">]</span><span class="o">.</span><span class="n">index</span><span class="p">,</span> <span class="n">legend</span><span class="o">=</span><span class="n">days</span><span class="p">)</span>
 </pre></div>
 </div>
 <div class="code highlight-default"><div class="highlight"><pre><span></span><span class="n">plt</span><span class="o">.</span><span class="n">show</span><span class="p">(</span><span class="n">fig</span><span class="p">)</span>
